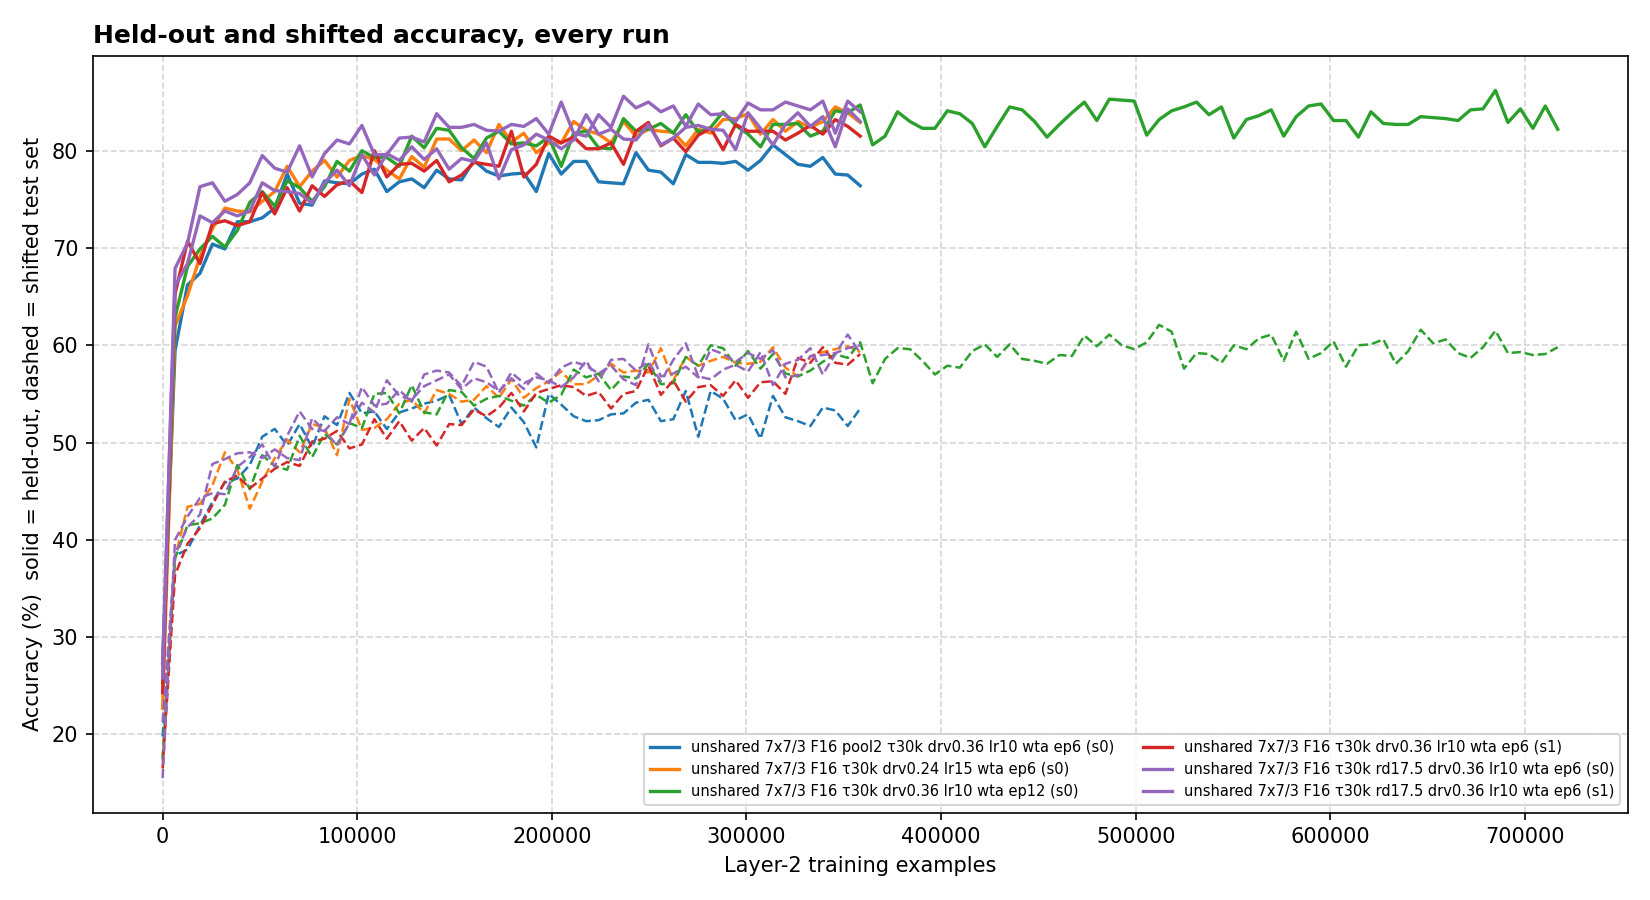
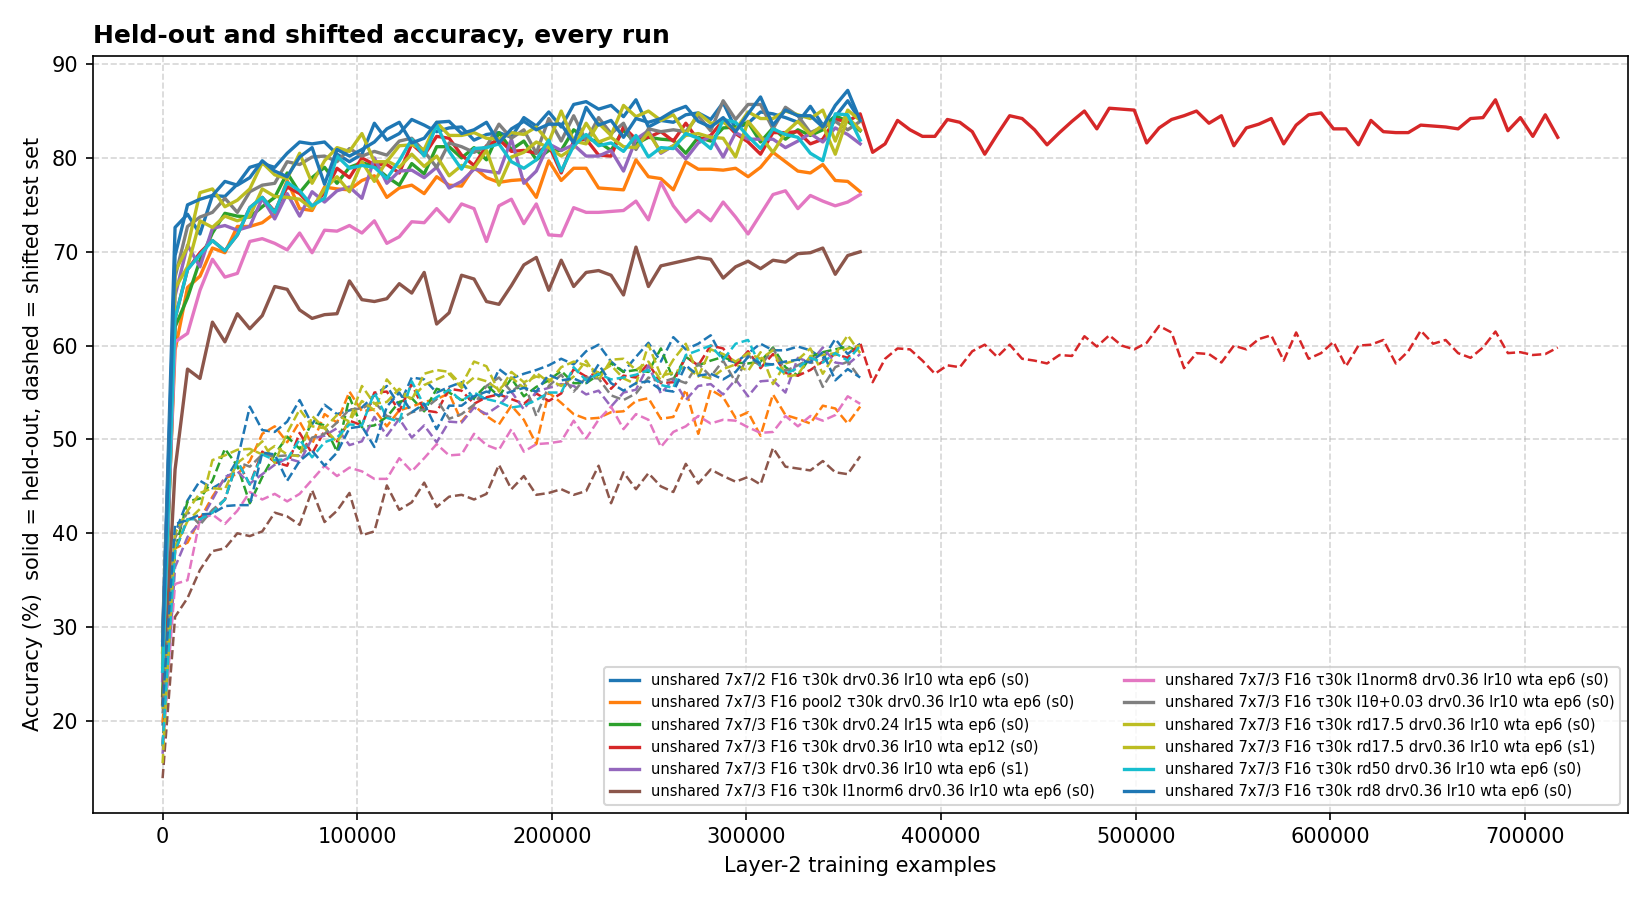
Update

diff --git a/new_architecture_testing/snn_multi_layered_unshared/results_2/07_batch6_stride2_readout8_6ep_20261122/README.md b/new_architecture_testing/snn_multi_layered_unshared/results_2/07_batch6_stride2_readout8_6ep_20261122/README.md
@@ -1,0 +1,66 @@
+# 07 — batch 6: combining and replicating batch 5's two winners (submitted from `unity/submit_multi_layer.sh`, 2026-11-22)
+
+## Purpose
+Batch 5 (`../06_batch5_layer1_code_stability_6ep_20261122/`) found two layer-1 changes that each beat the baseline by more
+than run-to-run noise, one seed each:
+- **stride 2** (121 overlapping windows instead of 64): 84.6 % held-out, 59.2 % shifted (baseline 82.1 / 57.4);
+- **8 mV readout inhibition** (losing features keep firing after the winner, 4.4 per window): 84.2 % held-out, shifted
+  unchanged (56.9).
+
+The single layer is at 85.6 / 60.5. What tracked accuracy across batch 5 was how many layer-1 spikes per image reach layer
+2 — and the two winners add them from different sources (more windows vs more features per window), so they may add up.
+Batch 5 also showed that the ~25-point loss on ±2 px shifts did not follow the layer-1 code's shift stability: at 8 mV the
+code is as shift-stable as raw pixels, yet shifted accuracy did not move. Pooling was tried once (batch 4), on the 200 mV
+code, whose windows flip under a 1-px shift; on the 8 mV code it gets a fair test.
+
+## Baselines (not rerun; all with `--l2-drive 0.36 --l2-lr-mult 10`, 6 epochs)
+Accuracy = mean of every snapshot in epochs 4–6 (held-out / shifted ±2 px).
+
+| run | seed | epochs 4–6 | folder |
+|---|---|---|---|
+| single layer | 0 | 85.6 / 60.5 | `../../results/03_batch2_layer1_variants_6ep_20261111/singlelayer_…` |
+| baseline layer 1 (stride 3, 200 mV) | 0 | 82.1 / 57.4 | `../05_batch4_best_followup_6ep_20261120/…_ep12_…` (first 6 epochs) |
+| baseline layer 1 | 1 | 81.2 / 56.1 | `../05_batch4_best_followup_6ep_20261120/…_seed1_l1wta_l2wta_…` |
+| 17.5 mV readout | 0 / 1 | 82.0 / 58.0 · 83.8 / 57.8 | `../05_batch4_best_followup_6ep_20261120/…_rd17.5_…` |
+| pool2, 200 mV | 0 | 78.2 / 52.9 | `../05_batch4_best_followup_6ep_20261120/…_pool2_…` |
+| stride 2 | 0 | 84.6 / 59.2 | `../06_batch5_layer1_code_stability_6ep_20261122/…_p7s2f16_…` |
+| 8 mV readout | 0 | 84.2 / 56.9 | `../06_batch5_layer1_code_stability_6ep_20261122/…_rd8_…` |
+
+Seed-0 runs at stride 3 share the same layer 1 (identical stage A), so the readout-inhibition runs differ only in the
+readout. The baselines agree within ±0.5 on the epochs 4–6 average; count a change if it is ≥ 1.5–2 points.
+
+## Configuration
+Common to every job: `--l1-wta --l2-wta --theta-tau 30000 --epochs 6 --snapshot-interval 200 --l2-drive 0.36
+--l2-lr-mult 10`; layer 1 otherwise default (7×7 windows, F = 16, row sum 12, w_max 1.5, θ⁺ 0.1, 200 mV training
+inhibition, stage A up to 30,000 images).
+
+| job | flags | question | compare with |
+|---|---|---|---|
+| `ml7_s2_rd8` | `--stride 2 --l1-readout-inhibition 8 --seed 0` | Do the two gains add up? | stride 2 (84.6), 8 mV (84.2), single layer (85.6) |
+| `ml7_s2_rd8_s1` | same, `--seed 1` | … on a second seed | seed-1 baseline (81.2) |
+| `ml7_s2_s1` | `--stride 2 --seed 1` | Is stride 2's gain real? | seed-1 baseline (81.2) |
+| `ml7_rd8_s1` | `--l1-readout-inhibition 8 --seed 1` | Is 8 mV's gain real? | seed-1 baseline (81.2), 17.5 mV seed 1 (83.8) |
+| `ml7_rd4` | `--l1-readout-inhibition 4 --seed 0` | Does an even softer readout keep helping? | 200 / 50 / 17.5 / 8 mV on the same layer 1: 82.1 / 81.7 / 82.0 / 84.2 |
+| `ml7_pool2_rd8` | `--pool2 --l1-readout-inhibition 8 --seed 0` | Can 2×2 pooling buy shift tolerance once the code is stable? | pool2 at 200 mV (78.2 / 52.9), 8 mV without pooling (84.2 / 56.9); watch the held-out − shifted gap (~25–27 everywhere so far) |
+
+`--pool2` needs an even window grid, so it runs at stride 3 (8×8 windows); at stride 2 (11×11) it would fail.
+Stride-2 runs took ~2 h in batch 5 like the others; every job has a 5-h limit.
+
+## What to watch
+- Layer-1 output reaching layer 2 (`run.json` → `l2_input_rate_per_ms`, measured at calibration): 0.95 spikes/ms for the
+  baseline, 1.55 at 8 mV, 2.03 at stride 2; the combination should give roughly 3–4. If accuracy keeps rising with it, the
+  "more channels" reading holds; if it flattens, batch 5's curve was already near its ceiling.
+- Layer-2 spikes per presentation (console, `summary.csv`): with many more input spikes per ms, calibration makes each
+  one worth less; layer 2 should still fire ~10–15 times per presentation.
+- Held-out − shifted gap for the pooling run.
+
+## Run and summarise
+```bash
+bash unity/submit_multi_layer.sh smoke     # optional: one short job (stride 2 + 8 mV) on tiny settings -> results/smoke_tests/
+bash unity/submit_multi_layer.sh           # the six jobs
+python new_architecture_testing/snn_multi_layered_unshared/summarize_multi_layer.py \
+    --results new_architecture_testing/snn_multi_layered_unshared/results_2     # summary.csv, S1, S2 in results_2/
+```
+
+## Results
+(to be filled in when the runs finish)

diff --git a/new_architecture_testing/snn_multi_layered_unshared/results_2/06_batch5_layer1_code_stability_6ep_20261122/README.md b/new_architecture_testing/snn_multi_layered_unshared/results_2/06_batch5_layer1_code_stability_6ep_20261122/README.md
@@ -56,11 +56,50 @@ inhibition, stage A up to 30,000 images.
 
 ## Run and summarise
 ```bash
-bash unity/submit_multi_layer.sh smoke     # optional: one short job (stride 2) on tiny settings -> results/smoke_tests/
-bash unity/submit_multi_layer.sh           # the six jobs
+git show db35bdd:unity/submit_multi_layer.sh   # the script now holds batch 6; this is batch 5's version
 python new_architecture_testing/snn_multi_layered_unshared/summarize_multi_layer.py \
     --results new_architecture_testing/snn_multi_layered_unshared/results_2     # summary.csv, S1, S2 in results_2/
 ```
 
-## Results
-(to be filled in when the runs finish)
+## Results (Unity, 2026-11-22)
+
+Accuracy: "epochs 4–6" = mean of every snapshot in epochs 4–6 (~28 snapshots; the steadiest number — the baselines agree
+to ±0.5 on it). Replay columns: the frozen layer 1 of each run replayed in numpy (`../../layer1_analysis/l1lib.py`) on 300
+test digits at the run's readout inhibition — layer-1 spikes per image, distinct channels (window × feature) that fired,
+features per active window, and code similarity (cosine of spike counts) for the same image shown twice and for the
+image shifted by 1 px.
+
+| run | last 3 | epoch 6 | epochs 4–6 | shifted, epochs 4–6 | layer 1 alone (shifted) | spikes / img | channels / img | features / window | same image | 1-px shift |
+|---|---|---|---|---|---|---|---|---|---|---|
+| single layer (batch 2) | 85.9 | 85.9 | 85.6 | 60.5 | – | – | – | – | 0.97 (pixels) | 0.75 (pixels) |
+| best, batch 3 | 82.3 | 83.0 | 82.1 | 56.7 | – | 308 | 36.6 | 1.00 | 0.75 | 0.39 |
+| best, batch 4 12-epoch run, at 6 epochs | 84.2 | 82.7 | 82.1 | 57.4 | 67.3 (48.1) | 308 | 36.6 | 1.00 | 0.75 | 0.39 |
+| best + 17.5 mV readout, batch 4 | 82.6 | 82.7 | 82.0 | 58.0 | 67.3 (48.1) | 324 | 71.3 | 1.95 | 0.97 | 0.56 |
+| **stride 2** | 84.8 | 84.5 | **84.6** | **59.2** | 67.2 (49.3) | 655 | 76.7 | 1.00 | 0.74 | 0.40 |
+| **readout inhibition 8 mV** | 85.6 | 84.9 | **84.2** | 56.9 | 67.3 (48.1) | 500 | 159.5 | 4.36 | 0.98 | 0.74 |
+| conscience ÷3 (θ⁺ 0.03) | 83.6 | 84.1 | 83.5 | 56.6 | 62.6 (45.3) | 377 | 37.3 | 1.00 | 0.75 | 0.43 |
+| readout inhibition 50 mV | 83.7 | 82.2 | 81.7 | 57.5 | 67.3 (48.1) | 308 | 36.6 | 1.00 | 0.75 | 0.39 |
+| layer-1 drive ×0.67 | 75.4 | 75.1 | 74.5 | 51.5 | 64.7 (47.9) | 198 | 33.9 | 1.00 | 0.80 | 0.42 |
+| layer-1 drive ×0.5 | 69.1 | 69.2 | 68.5 | 45.9 | 62.2 (45.3) | 135 | 30.9 | 1.00 | 0.82 | 0.42 |
+
+(Rows 2–3 and the 8 / 17.5 / 50 mV rows share the same seed-0 layer 1; only the readout differs. One seed per run.)
+
+- **Two changes clear the bar.** Stride 2: +2.5 held-out and +1.8–2.5 shifted (epochs 4–6), ahead in every epoch from the
+  first; now 1.0 point under the single layer held-out and 1.3 shifted. Readout inhibition 8 mV: +2.1 held-out, shifted
+  unchanged. The weaker conscience (+1.4, shifted −0.8) is inside the noise.
+- **Lowering the layer-1 drive backfires** (−7.6 and −13.6). It does make each window's choice slightly more repeatable
+  (same image 0.75 → 0.80 / 0.82), but fewer windows fire (36.6 → 33.9 / 30.9 per image) and layer 1 sends a third to a
+  half fewer spikes. Layer 2's calibration keeps its drive in mV per ms, so each spike is worth 1.5–2.3× more and layer 2
+  decides on correspondingly fewer of them — likely batch 3's readout problem coming back.
+- **50 mV behaves exactly like 200 mV**: it still silences the losing features for the rest of the presentation (1.00
+  feature per window), so nothing changed. Somewhere below ~20 mV the runners-up start to fire: 1.95 features per window
+  at 17.5 mV, 4.4 at 8 mV.
+- **Code stability was not the limit.** At 8 mV the code is as stable as raw pixels (0.98 / 0.74 vs pixels 0.97 / 0.75), but
+  shifted accuracy did not move; stride 2 left stability unchanged and gave the largest gain.
+- **What tracked accuracy across all eight conditions was how many spikes layer 1 sends per image**: 135 → 68.5 %,
+  198 → 74.5, 308 → 81.7–82.1, 324 → 82.0, 377 → 83.5, 500 → 84.2, 655 → 84.6 — monotonic and saturating. It is not raw spike
+  count alone: batch 4's drive 0.24 made layer 2 integrate ~1.5× more spikes before deciding and did not help (82.2). The
+  two winners add spikes from *more channels* — overlapping windows (stride 2) or runner-up features (8 mV) — rather than
+  more repeats of the same ones. A working hypothesis, not yet tested directly.
+- **The ~25-point loss on ±2 px shifts behaves like the single layer's**: it did not follow the layer-1 code's shift
+  stability in any run. It looks like a property of layer 2's whole-digit templates, whatever they are built from.

diff --git a/new_architecture_testing/snn_multi_layered_unshared/results_2/README.md b/new_architecture_testing/snn_multi_layered_unshared/results_2/README.md
@@ -8,7 +8,8 @@ the folder numbering continues from there.
 | folder | batch | question | outcome |
 |---|---|---|---|
 | `05_batch4_best_followup_6ep_20261120/` | 4 | Does batch 3's best layer-2 setting (drive 0.36, lr ×10) replicate, and do the 17.5 mV readout, 12 epochs, a lower drive or pooling improve it? | Replicates (82.3 / 82.4 %); every variant lands at 82–84 % (single layer 85.9 %); pooling −5 points; the ~24-point loss on shifted digits is unchanged. Layer 1 alone: 65–67 %. |
-| `06_batch5_layer1_code_stability_6ep_20261122/` | 5 | Do layer-1 changes aimed at the close races between near-copy features (lower drive, readout inhibition 8 / 50 mV, weaker conscience, stride 2) improve the code? | pending |
+| `06_batch5_layer1_code_stability_6ep_20261122/` | 5 | Do layer-1 changes aimed at the close races between near-copy features (lower drive, readout inhibition 8 / 50 mV, weaker conscience, stride 2) improve the code? | Stride 2 (+2.5 held-out, +2 shifted) and 8 mV readout inhibition (+2.1 held-out) help; lower layer-1 drive costs 8–14 points; 50 mV = 200 mV. Accuracy tracked layer-1 spikes per image, not code stability. Best: 84.6 % (epochs 4–6) vs single layer 85.6. |
+| `07_batch6_stride2_readout8_6ep_20261122/` | 6 | Do stride 2 and the 8 mV readout add up, do they replicate on a second seed, does 4 mV help further, and can pooling buy shift tolerance on the 8 mV code? | pending |
 
 Each folder's README.md has the configuration, the questions and the results.
 `summary.csv`, `S1_accuracy_overlay.png` and `S2_shift_tolerance.png` here cover every run in results_2 (the `group`
